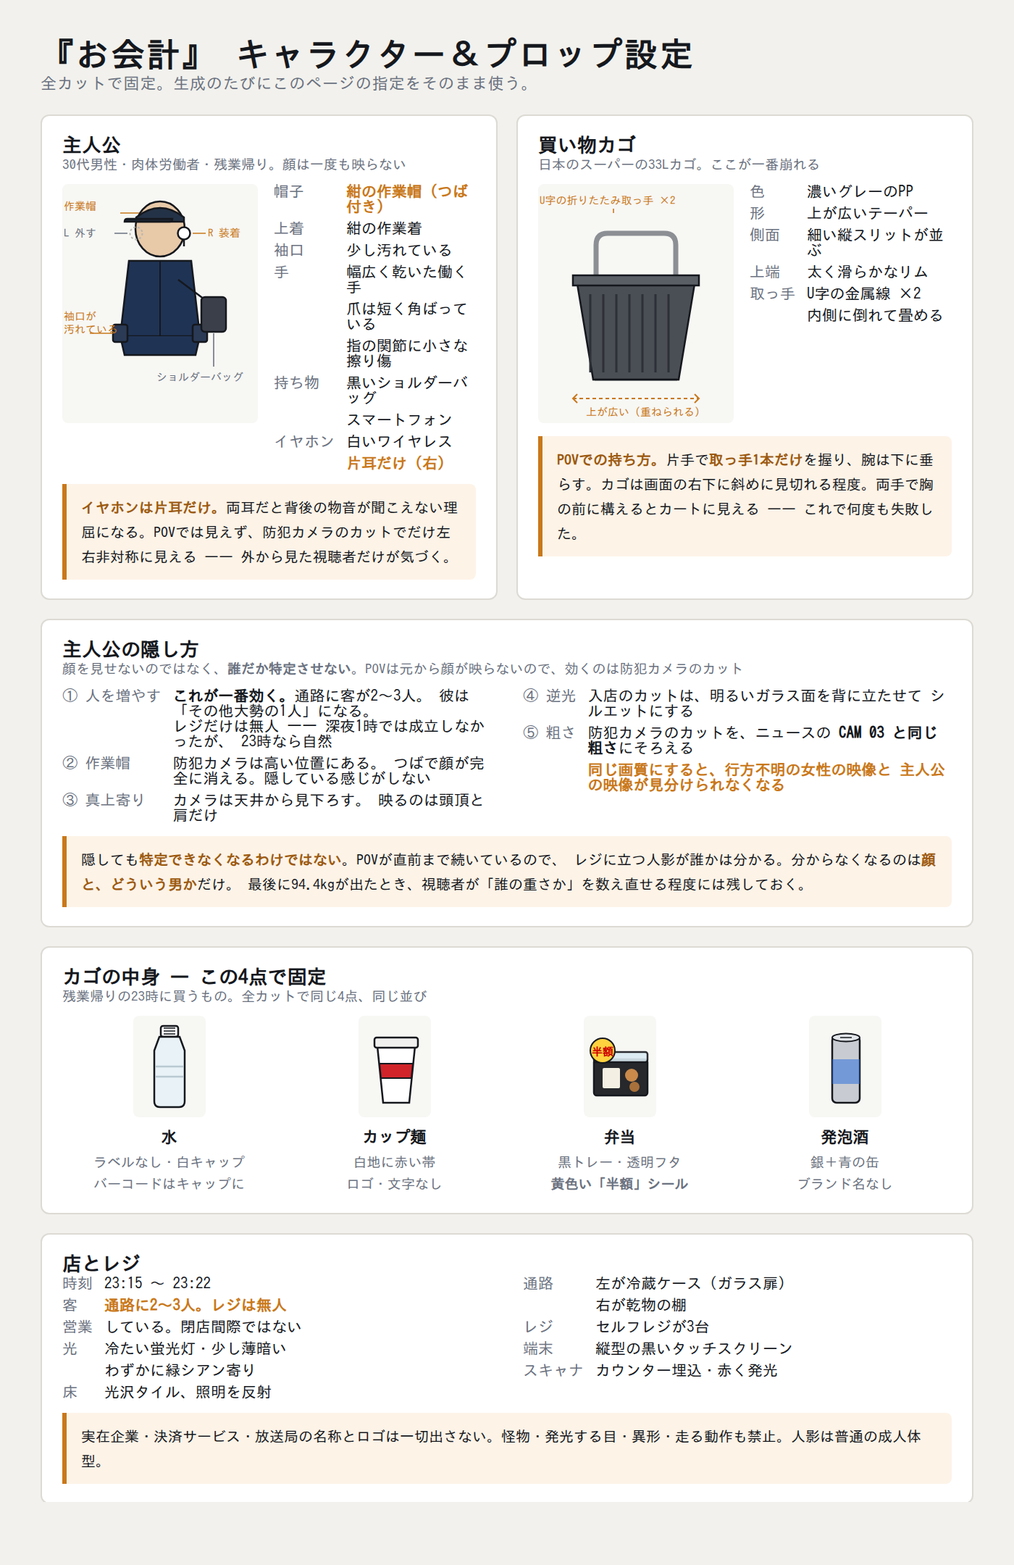
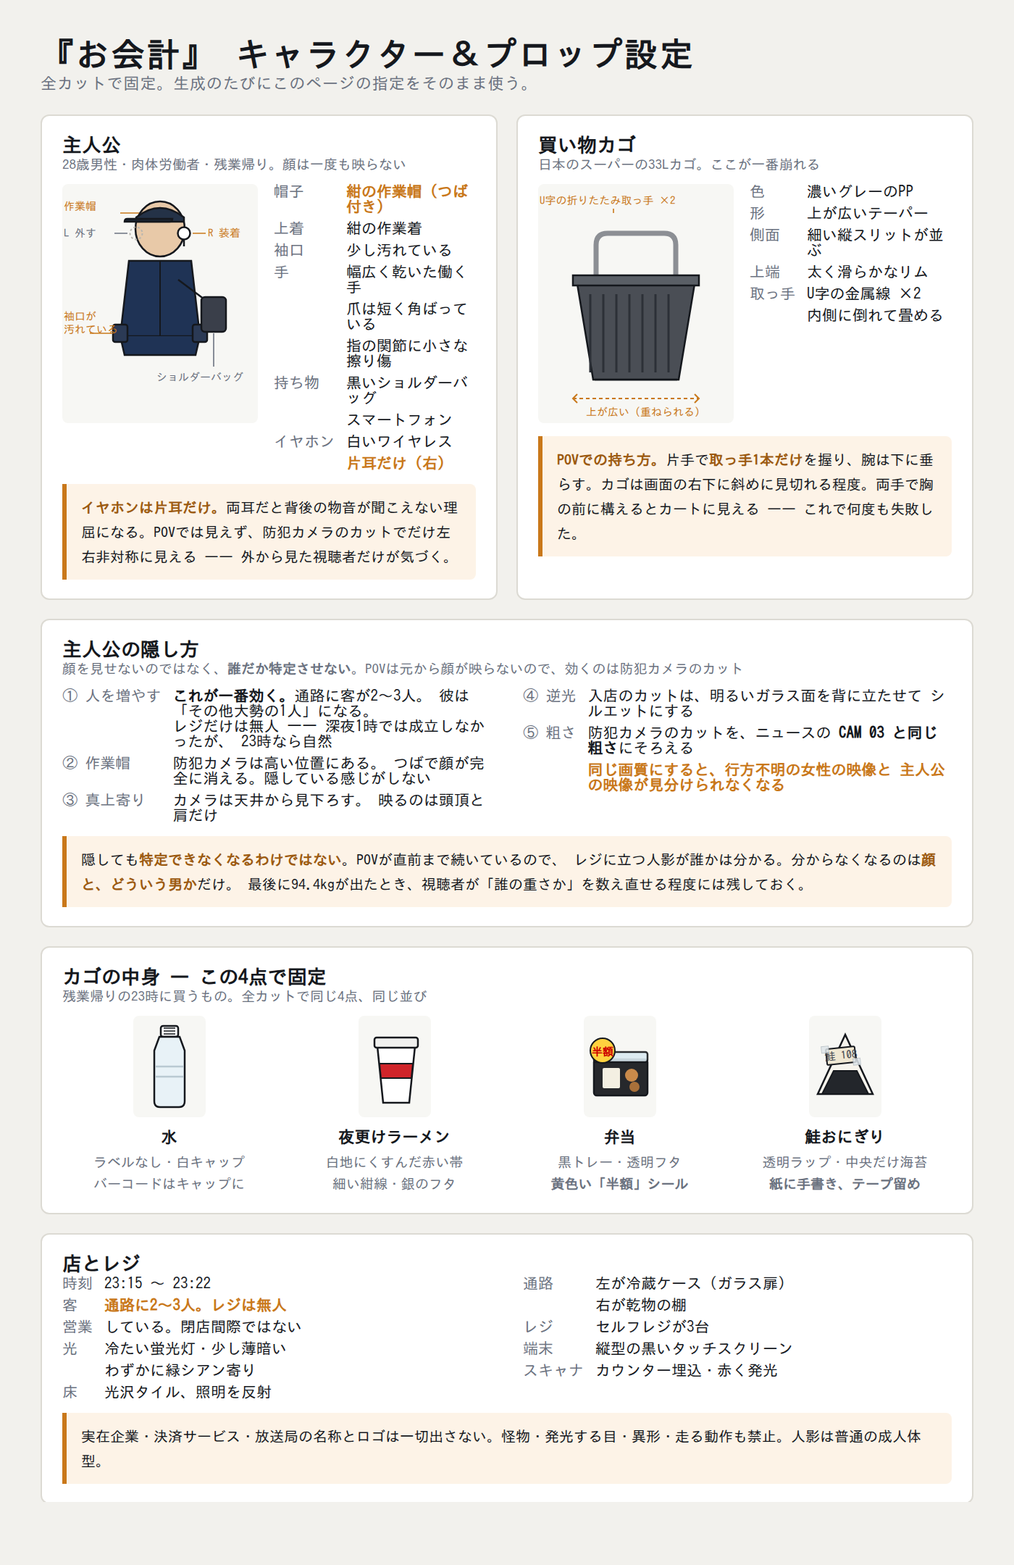
お会計: 構成の衝突8点を決着させ、30秒版の指示書を作成
ローカルへ引き継げないのでここで継続。依頼者の委任によりこちらで決着。

- 絵コンテ-30秒.md を新規作成。全12カット30.0秒。1カットにつき秒数・
  画角・カメラ移動・動作・環境音・開始/終了フレーム・素材・やらないこと。
  前半13秒（43%）は何も起きない配分を維持。
- レシートを刷新。価格を明記し合計を0円に。重量94.4kg／人数2名を追加
  したので、主人公のレシートにも最初から出ていることになる。
- screen_1284 を廃止し screen_0 を追加。
- 設定シートの4点目を発泡酒から手書きラベルの鮭おにぎりへ。年齢を28歳に。
- 全部作るには約198クレジット要る。残高116.94では5カット分なので
  優先順位を指示書の末尾に記載。

Claude-Session: https://claude.ai/code/session_01DV5Uno6itkADc7bV4PwhDi

Changed region(s): [[0.7679, 0.6514, 0.9214, 0.7755], [0.3379, 0.7134, 0.4607, 0.7755], [0.0614, 0.0931, 0.0921, 0.1241]]

diff --git a/docs/okaikei/assets/build.py b/docs/okaikei/assets/build.py
@@ -70,23 +70,31 @@ def kiosk(amount, *, scanning=False):
 # ---------------------------------------------------------------- receipt
 RECEIPT = f'''<meta charset="utf-8"><style>
  *{{box-sizing:border-box;margin:0}} html,body{{width:620px;height:1080px}}
- body{{font-family:{FONT};background:#fbfaf7;padding:54px 46px;color:#14161a;
-       font-size:30px;line-height:1.85;letter-spacing:.02em}}
- .r{{display:flex;justify-content:space-between}} .r i{{font-style:normal;font-variant-numeric:tabular-nums}}
- hr{{border:0;border-top:2px dashed #b9b6ae;margin:18px 0}}
- .sp{{height:44px}} .warn{{text-align:center;font-size:32px;letter-spacing:.06em}}
- .small{{font-size:25px;color:#4a4d54}}
+ body{{font-family:{FONT};background:#fbfaf7;padding:44px 46px;color:#14161a;
+       font-size:27px;line-height:1.7;letter-spacing:.02em}}
+ .r{{display:flex;justify-content:space-between}}
+ .r i{{font-style:normal;font-variant-numeric:tabular-nums}}
+ hr{{border:0;border-top:2px dashed #b9b6ae;margin:14px 0}}
+ .sp{{height:30px}}
+ .warn{{text-align:center;font-size:31px;letter-spacing:.06em}}
+ .small{{font-size:23px;color:#4a4d54}}
+ .big i{{font-size:34px;font-weight:700}}
 </style>
 <div class="small">2026/09/16&nbsp;&nbsp;23:21</div>
+<div class="small">セルフレジ 2号</div>
 <hr>
-<div class="r"><span>水 500ml</span><i>¥0</i></div>
-<div class="r"><span>カップ麺</span><i>¥0</i></div>
-<div class="r"><span>弁当（半額）</span><i>¥0</i></div>
-<div class="r"><span>発泡酒</span><i>¥0</i></div>
+<div class="r"><span>唐揚げ弁当（半額）</span><i>¥199</i></div>
+<div class="r"><span>鮭おにぎり</span><i>¥108</i></div>
+<div class="r"><span>夜更けラーメン</span><i>¥168</i></div>
+<div class="r"><span>水 500ml</span><i>¥88</i></div>
 <hr>
-<div class="r"><span>合計</span><i>¥0</i></div>
-<div class="r"><span>お預り</span><i>¥0</i></div>
-<div class="r"><span>お釣り</span><i>¥0</i></div>
+<div class="r"><span>小計</span><i>¥563</i></div>
+<div class="r"><span>消費税（8%）</span><i>¥45</i></div>
+<div class="r big"><span>合計</span><i>¥0</i></div>
+<hr>
+<div class="r"><span>重量</span><i>94.4kg</i></div>
+<div class="r"><span>人数</span><i>2名</i></div>
+<hr>
 <div class="sp"></div>
 <div class="warn">後ろを見ないでください</div>'''
 
@@ -315,7 +323,7 @@ CHARSHEET = f"""<meta charset="utf-8"><style>
 <div class="grid">
   <div class="card">
     <h2>主人公</h2>
-    <p class="note">30代男性・肉体労働者・残業帰り。顔は一度も映らない</p>
+    <p class="note">28歳男性・肉体労働者・残業帰り。顔は一度も映らない</p>
     <div class="row">
       <svg width="270" height="330" viewBox="-40 -10 270 330">
         <ellipse cx="95" cy="52" rx="34" ry="38" fill="#e8c9a8" stroke="#15181d" stroke-width="2.5"/>
@@ -435,7 +443,7 @@ CHARSHEET = f"""<meta charset="utf-8"><style>
           <rect x="22" y="30" width="60" height="14" rx="3" fill="#f0f0ee" stroke="#15181d" stroke-width="2.5"/>
           <path d="M29 66h46l-2 20H31z" fill="#d0242a" stroke="#15181d" stroke-width="2"/>
         </svg>
-        <b>カップ麺</b><span>白地に赤い帯<br>ロゴ・文字なし</span>
+        <b>夜更けラーメン</b><span>白地にくすんだ赤い帯<br>細い紺線・銀のフタ</span>
       </div>
       <div class="item">
         <svg width="100" height="140" viewBox="0 0 100 140">
@@ -451,12 +459,18 @@ CHARSHEET = f"""<meta charset="utf-8"><style>
       </div>
       <div class="item">
         <svg width="100" height="140" viewBox="0 0 100 140">
-          <rect x="32" y="28" width="38" height="92" rx="6" fill="#c8ccd2" stroke="#15181d" stroke-width="2.5"/>
-          <rect x="32" y="60" width="38" height="34" fill="#2f6fdb" opacity=".55"/>
-          <ellipse cx="51" cy="30" rx="19" ry="5.5" fill="#e2e5e9" stroke="#15181d" stroke-width="2"/>
-          <path d="M43 30h16" stroke="#15181d" stroke-width="1.6"/>
+          <path d="M50 26 88 108H12z" fill="#f7f4ec" stroke="#15181d" stroke-width="2.5"/>
+          <path d="M34 76h32l16 32H18z" fill="#23262b" stroke="#15181d" stroke-width="2"/>
+          <rect x="24" y="44" width="40" height="22" rx="2" fill="#efe7d2"
+                stroke="#15181d" stroke-width="2" transform="rotate(-6 44 55)"/>
+          <text x="44" y="60" font-size="15" text-anchor="middle" fill="#3a3f4a"
+                transform="rotate(-6 44 55)">鮭 108</text>
+          <rect x="18" y="40" width="10" height="9" fill="#dfe6ea" opacity=".85"
+                stroke="#b9c2c7" stroke-width="1" transform="rotate(-6 44 55)"/>
+          <rect x="60" y="61" width="10" height="9" fill="#dfe6ea" opacity=".85"
+                stroke="#b9c2c7" stroke-width="1" transform="rotate(-6 44 55)"/>
         </svg>
-        <b>発泡酒</b><span>銀＋青の缶<br>ブランド名なし</span>
+        <b>鮭おにぎり</b><span>透明ラップ・中央だけ海苔<br><span class="hi">紙に手書き、テープ留め</span></span>
       </div>
     </div>
   </div>
@@ -487,7 +501,7 @@ CHARSHEET = f"""<meta charset="utf-8"><style>
 
 ASSETS = [
     ("screen_47_2kg",  kiosk("47.2kg円"),          900, 1200, False),
-    ("screen_1284",    kiosk("1,284円"),           900, 1200, False),
+    ("screen_0",       kiosk("0円"),               900, 1200, False),
     ("screen_scan",    kiosk("¥108", scanning=True), 900, 1200, False),
     ("receipt",        RECEIPT,                    620, 1080, False),
     ("cctv_cam01",     cctv("CAM 01", "2026-09-16　23:19:40"),            1080, 1920, True),

diff --git a/docs/okaikei/絵コンテ-30秒.md b/docs/okaikei/絵コンテ-30秒.md
@@ -1,0 +1,197 @@
+# 『お会計』30秒版 ― カットごとの生成指示書
+
+`企画-最新版.md` の依頼（1カットごとの秒数・画角・カメラ移動・動作・環境音・
+開始/終了フレーム）に対する答え。**1生成＝1カット＝1視点・1動作・1カメラ移動。**
+
+全12カット・30.0秒。前半13秒（43%）は何も起きない ―― 異変は「普通」との差分でしか
+成立しないので、ここを削らない。
+
+---
+
+## C1  入店 ― 3.0秒
+
+- **画角** 防犯カメラ。入口上の天井から俯瞰、広角
+- **カメラ** 完全固定。動かさない
+- **動作** 自動ドアが開く。主人公が入り、右の重ねられたカゴから1つ取って歩き出す
+- **音** 自動ドアのモーター、駐車場の遠い車、入店チャイム
+- **開始** 無人の入口。ドアは閉じている
+- **終了** 主人公が通路の奥へ半分入った状態
+- **素材** 依頼者の既存クリップ ＋ `cctv_cam01.png` を重ねる
+- **やらない** ズームしない。主人公を画面中央に置かない（**端を歩かせる**）
+
+主人公はここで**逆光のシルエット**になる。背後のガラス面が明るいので自然に顔が消える。
+
+## C2  通路を歩く ― 3.0秒
+
+- **画角** 一人称POV、縦9:16
+- **カメラ** 前進のみ。首を振らない
+- **動作** 右手が**スマホをポケットにしまう**。左手はカゴの取っ手1本を握り、腕は下に垂れる
+- **音** 足音、冷蔵ケースのコンプレッサー、蛍光灯のかすかなノイズ
+- **開始** 手にスマホ。画面にニュースが再生中（下記の素材を合成）
+- **終了** スマホはポケット。前方の通路だけ
+- **素材** スマホ画面に `phone_news` クリップ（540×960・10.2秒）をコーナーピン合成
+- **やらない** スマホの中身を大写しにしない。**2秒あれば足りる**
+
+通路の奥を**買い物客が1人、画面を横切る**。主人公を見ない。これで彼は「その他大勢の1人」になる。
+
+## C3  半額の弁当を取る ― 2.5秒
+
+- **画角** POV。右半分が惣菜の冷蔵ケース
+- **カメラ** 固定。手だけが動く
+- **動作** 左手が黒トレーの唐揚げ弁当をフタの縁でつまみ上げる
+- **音** 冷蔵ケースの風、トレーがプラ棚をこする音
+- **開始** 棚。弁当は残り数個、ほとんどの枠が空
+- **終了** 弁当が持ち上がり、**黄色い「半額」シールが斜めに**見えている
+- **やらない** カゴに入れる動作までやらない（次のカットに混ぜない）
+
+## C4  鮭おにぎり ― 2.0秒
+
+- **画角** POV。おにぎりの平台を見下ろす
+- **カメラ** 固定
+- **動作** 左手が1つ取る
+- **音** ラップの音
+- **開始** 不揃いな三角のおにぎりが数個
+- **終了** 手の中のおにぎり。**生成り色の紙に手書きで「鮭」「108円」、透明テープ留め**
+- **やらない** 印刷ラベルにしない。**手書き**であることが画面に残る
+
+深夜に誰かが手で書いて貼った。それが誰かは言わない。
+
+## C5  スキャンする ― 2.5秒
+
+- **画角** POV。カウンター面のフラットベッドスキャナを見下ろす
+- **カメラ** 固定
+- **動作** 水のボトルを**キャップを下に**してスキャナに通す。ピッ
+- **音** スキャン音、カゴがカウンターに当たる音、プリンターの待機音
+- **開始** カウンターに商品。スキャナが赤く光る
+- **終了** 水が袋詰め台へ移った状態
+- **素材** 端末画面に `screen_scan.png`
+- **やらない** 4点全部をスキャンしない。**1点で「作業」は伝わる**
+
+---
+
+## C6  お支払い金額 47.2kg円 ― 2.5秒
+
+- **画角** POV。顔を上げて端末画面を見る
+- **カメラ** その場で上を向くだけ。**前に進まない・歩かない**
+- **動作** なし。ただ見ている
+- **音** **環境音を1つ落とす**（冷蔵庫のコンプレッサーを切る）。他はそのまま
+- **開始** 画面が正面に来た瞬間
+- **終了** 同じ構図のまま
+- **素材** `screen_47_2kg.png` を画面領域にトラッキング合成
+- **やらない** ズームしない。効果音を鳴らさない。**主人公は驚かない**
+
+**2.5秒そのまま置く。** 視聴者が自分で数字を読む時間。
+
+## C7  顔を上げる ― 2.5秒
+
+- **画角** POV。画面から前方の通路へ視線を上げる
+- **カメラ** ゆっくり上へ。**回転のみ、前進しない**
+- **動作** なし
+- **音** 環境音は落ちたまま。足音も物音もない
+- **開始** 端末画面の上端
+- **終了** 通路の奥。**冷凍食品島の向こうに女性が立っている**
+- **やらない** ピントを合わせない。中央に置かない。**目を合わせない**
+
+女性はアイボリーの上着、黒いロングスカート、肩までの黒髪。**C2で通路を横切った客と同じ服。**
+濡れた髪・白い顔・異常な姿勢は禁止。**ただ立っているだけの普通の客に見えること。**
+
+## C8  0円 ― 2.0秒
+
+- **画角** C6と同一
+- **カメラ** 視線を画面へ戻す。回転のみ
+- **動作** なし
+- **音** 環境音が戻る。冷蔵庫が鳴り出す
+- **開始** 通路（C7の終了フレーム）
+- **終了** 画面。**「お支払い金額 0円」**
+- **素材** C6と**同じ生成動画を使い回し**、合成する画面だけ差し替える
+- **やらない** 数字が変わる瞬間を映さない。**終了フレームに「もう0円の世界」を置く**
+
+## C9  レシート ― 3.0秒
+
+- **画角** POV。プリンター口の手元クローズアップ
+- **カメラ** 固定
+- **動作** **誰も触っていないのにレシートが出てくる。** 手が伸びて取る
+- **音** プリンターの駆動音。それ以外は無音
+- **開始** 空のプリンター口
+- **終了** 手に持ったレシート。下端に**赤い滴が1つ**
+- **素材** `receipt.png` を紙面にトラッキング合成
+- **やらない** 血を流さない。**一滴だけ。** 垂れる動きも映さない
+
+レシートには **重量 94.4kg／人数 2名** がすでに印字されている。
+**指ささない。** ここで気づかなくていい。
+
+## C10  防犯カメラ ― 2.5秒
+
+- **画角** 防犯カメラ。セルフレジを斜め上から俯瞰
+- **カメラ** 完全固定
+- **動作** 主人公がレシートを持って立っている。**他に誰もいない**
+- **音** 蛍光灯のノイズのみ
+- **開始** センサー表示 **47.2kg**
+- **終了** センサー表示 **94.4kg**
+- **素材** `cctv_cam04_472.png` → `cctv_cam04_944.png` に差し替え
+- **やらない** 人影を足さない。**画面に映っているのは主人公1人だけ**
+
+数字が変わる以外、画は何も動かない。
+
+---
+
+## C11  翌朝 ― 2.5秒
+
+- **画角** 俯瞰の手元。セルフレジの下を掃除する店員の手
+- **カメラ** 固定
+- **動作** モップか手が、台の下から**古いレシートを何枚も掻き出す**
+- **音** 朝の店内。人の話し声、カート、放送。**普通に営業している**
+- **開始** 台の下の暗がり
+- **終了** 床に広がった十数枚のレシート。**日付が全部ちがう**のに、どれにも
+  **「重量 94.4kg／人数 2名」**
+- **素材** `receipt_old_*.png`（日付違いを複数枚、要追加）
+- **やらない** 店員の顔を映さない。カメラを寄せない。**説明しない**
+
+昨夜の事件には**誰も触れない**。店は何事もなかったように開いている。
+
+## C12  タイトル ― 2.0秒
+
+- 暗転 → `title.png`
+- **音** 無音。あるいは蛍光灯のノイズだけ残す
+- 文言：**この場所では、ひとりで会計しないでください。**
+
+---
+
+## 尺の配分
+
+| | 秒 | |
+|---|---|---|
+| C1〜C5 | **13.0** | 何も起きない（43%） |
+| C6〜C10 | 12.5 | 異変 |
+| C11〜C12 | 4.5 | 翌朝とタイトル |
+| | **30.0** | |
+
+## この版で捨てたもの
+
+- **冒頭の全画面ニュース**（8秒）→ C2のスマホ画面で2秒に圧縮。組み立て済みの15.5秒は
+  60秒版／ゲーム本編の導入として残す
+- **防犯ミラーに背後の女性**（企画書9番）→ C7で見せているので重複
+- **事務室の古い写真**（年代違いの写真すべてに同じ女性）→ 30秒に入らない。
+  ただし**「土地が呪われている」と言えるのはこの写真だけ**なので、60秒版では必須。
+  C11の古いレシートだけでも「ここでは昔からこうだ」までは伝わる
+
+## 作るのにかかるクレジット
+
+| | |
+|---|---|
+| 既存で足りる | C1（依頼者のクリップ）、C12（`title.png`） |
+| 文字もの（無料） | 全画面・レシート・CCTV overlay。`assets/build.py` |
+| **要生成** | C2〜C11 の9本（C6とC8は1本を使い回す） |
+| 1カットあたり | 静止画10 ＋ 動画12（480p/4秒）＝ **22** |
+| **合計** | **約198** |
+
+**残高 116.94 では全部は作れない。** 5カット分。優先順位：
+
+1. **C6（47.2kg円）** ― これが無いと作品が無い
+2. **C7（顔を上げる → 女性）**
+3. **C9（レシート）**
+4. **C3（半額弁当）** ― 「普通」の代表として1枚
+5. **C11（翌朝の古いレシート）** ― オチ
+
+C2・C4・C5・C10 は後回し。C10 は防犯カメラの固定画なので、
+**静止画1枚＋オーバーレイ差し替えだけで動画なしでも成立する**（10クレジット）。

diff --git a/docs/okaikei/HANDOFF.md b/docs/okaikei/HANDOFF.md
@@ -4,36 +4,30 @@
 
 作り方そのもの（工程・プロンプトの型・失敗集）は **`WORKFLOW.md`**、外部のAI/ツールに画像生成を投げるときの引き渡し資料は **`CODEX-BRIEF.md`** に分けてある。
 
-## 未決定 ― ここが決まるまで生成を再開しない
+## 決着済み（2026-09-25）
 
-2026-09-21、依頼者から企画の最新版（`企画-最新版.md`）を受領。**設定はほぼ一致した**が
-（帽子・右耳だけのイヤホン・23時台・カート禁止・カゴの持ち方・「つばと逆光と俯瞰で
-特定させない」まで独立して一致）、**構成が8点ぶつかっている**。
+2026-09-21、依頼者から企画の最新版（`企画-最新版.md`）を受領。設定はほぼ一致していたが
+構成が8点ぶつかった。**9/25、依頼者の委任によりこちらで決着させた。違うところだけ
+指摘してもらう前提。** 結果は `絵コンテ-30秒.md` に反映済み。
 
-| | 企画-最新版.md | これまで（この文書） | 重さ |
-|---|---|---|---|
-| 1 | 尺 **25〜30秒** | 1分。冒頭ニュースだけで15.5秒使用済み | **大** |
-| 2 | 冒頭のニュース**なし**。オチは翌朝の古いレシート＋古い写真 | ニュースで行方不明を提示 | **大** |
-| 3 | 画面が **「0円」** に戻る | **「1,284円」**（正常な会計） | **大** |
-| 4 | 顔を上げると**女性が立っている**。防犯ミラーにも映る | 振り向くと**誰もいない** | **大** |
-| 5 | 血は**レシートから一滴** | **台の下から流れて、目を離した隙に消える** | 中 |
-| 6 | 発泡酒 → **鮭おにぎり** | 発泡酒 | 中 |
-| 7 | 価格を明記（弁当199・おにぎり108・麺168） | 合計1,284円 | 小 |
-| 8 | 主人公 **28歳** | 30代 | 小 |
+| | 採用 | 理由 |
+|---|---|---|
+| 1 | **30秒** | 企画書の指定 |
+| 2 | **ニュースはC2のスマホ画面で2秒**。全画面の冒頭は廃止 | 全廃はもったいない。歩きながら2秒映れば足りる。組み立て済みの15.5秒は60秒版へ |
+| 3 | **0円** | 「もう誰かが払った」が「2人として数えられた」と繋がる。会計の尺も不要になる |
+| 4 | **女性を見せる**（C7）。防犯ミラーは重複なので廃止 | 怪物ではなく普通の客。C2で横切らせて服を一致させる |
+| 5 | **レシートから一滴** | 企画書の案。**ここだけ確信がない** ―― 流れて消える血は依頼者が一度復活させた案 |
+| 6 | **鮭おにぎり** | 手書きの紙ラベルが強い。誰かが夜中に手で書いた物が画面に残る |
+| 7 | 小計563・消費税45・**合計0円** | 差額そのものが異変になる |
+| 8 | **28歳** | 企画書 |
 
-**1と2はセット。** 25〜30秒だと、冒頭ニュース（8秒）と翌朝のオチ（6〜8秒）は両立しない。
+レシートに **重量 94.4kg／人数 2名** を追加した。**主人公のレシートにも最初から
+出ている。** 気づかないまま通り過ぎて、C11の古いレシートで同じ行を見て戻ってくる。
 
-**3は意味が変わる。** 1,284円は「世界が元に戻った」、0円は「**もう誰かが払った**」。
-0円のほうが「2人として数えられた」と繋がるが、「何事もなく会計を済ませる」流れは壊れる。
-
-**4は逆方向。** これまでは振り向いても誰もいない。最新版は**見せる**。ただし怪物ではなく
-普通の買い物客として序盤から紛れさせ、終盤の人影と服が一致する ―― この作りは巧い。
-
-**7は算数が合わない。** 明記された価格を足すと 199＋108＋168＋水 ≒ 563円で、
-**1,284円にならない**。レシートは現在 `¥0` のプレースホルダ。どちらに合わせるか決まれば埋める。
+`screen_1284.png` は廃止し `screen_0.png` に差し替え。
 
 **未着：`設定画/` の15枚**（人物8・商品3・スーパー4）。`企画-最新版.md` はこれを参照する
-前提で書かれている。`docs/okaikei/設定画/` に置いて、`README.md` から参照する。
+前提で書かれている。`docs/okaikei/設定画/` に置く。
 
 ### 94.4kg の根拠は解決した
 

diff --git a/docs/okaikei/README.md b/docs/okaikei/README.md
@@ -21,6 +21,7 @@
 |---|---|
 | **`HANDOFF.md`** | **まずこれ。** 冒頭の「未決定」8点 → 決定事項、絵コンテ、生成ID、組み立て済みの映像、次にやること |
 | **`企画-最新版.md`** | 依頼者から受領した企画の最新版。**設定はこれが正。** 構成は HANDOFF の「未決定」と衝突中 |
+| **`絵コンテ-30秒.md`** | **カットごとの生成指示書。**全12カット30秒。秒数・画角・カメラ・動作・音・開始/終了フレーム・素材・やらないこと |
 | `assets/` | **文字もの素材と、それを描くコード。** フォルダ内の README に全部書いてある |
 | `CODEX-BRIEF.md` | 他のAI・ツールに画像生成を頼むとき**そのまま渡す**。世界のバイブル、画面内の日本語一覧、コピーして使える英語プロンプト、失敗集 |
 | `WORKFLOW.md` | 同じ手口で**別の映像**を作るときの工程。企画→絵コンテ→プリビズ→静止画→動画→確認→編集 |
@@ -41,5 +42,6 @@
 - 冒頭〜入店の15.5秒は組み立て済み（URLは `HANDOFF.md`）
 - スマホ画面に貼るニュースクリップ（10.2秒）も作成済み
 - 生成は依頼者の指示で停止中。残高と次の一手は `HANDOFF.md` の「次にやること」
-- **`企画-最新版.md` と構成が8点ぶつかっている。決着するまで生成を再開しない**（`HANDOFF.md` 冒頭）
+- 構成の衝突8点は決着済み（`HANDOFF.md` 冒頭）。**30秒版の指示書は `絵コンテ-30秒.md`**
+- 全部作るには約198クレジット要る。残高116.94では5カット分（優先順位は指示書の末尾）
 - `設定画/` の15枚が未着
